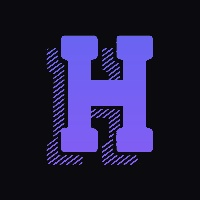
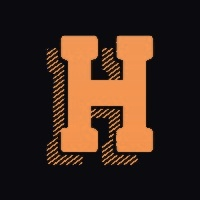
Change theme colors from purple/indigo to orange/black
Replace the indigo (#6366f1) and purple (#8b5cf6) color palette
with orange (#f97316) and amber (#f59e0b) across particle effects
and favicon icons. Icons were hue-shifted using PIL/Pillow.

Changed region(s): [[0.21, 0.15, 0.78, 0.84]]

diff --git a/assets/js/particles-config.js b/assets/js/particles-config.js
@@ -13,7 +13,7 @@ document.addEventListener("DOMContentLoaded", function () {
         value: 50,
         density: { enable: true, area: 900 },
       },
-      color: { value: "#6366f1" },
+      color: { value: "#f97316" },
       shape: { type: "circle" },
       opacity: {
         value: 0.4,
@@ -26,7 +26,7 @@ document.addEventListener("DOMContentLoaded", function () {
       links: {
         enable: true,
         distance: 160,
-        color: "#6366f1",
+        color: "#f97316",
         opacity: 0.12,
         width: 1,
       },
@@ -47,7 +47,7 @@ document.addEventListener("DOMContentLoaded", function () {
       modes: {
         grab: {
           distance: 180,
-          links: { opacity: 0.3, color: "#8b5cf6" },
+          links: { opacity: 0.3, color: "#f59e0b" },
         },
       },
     },
